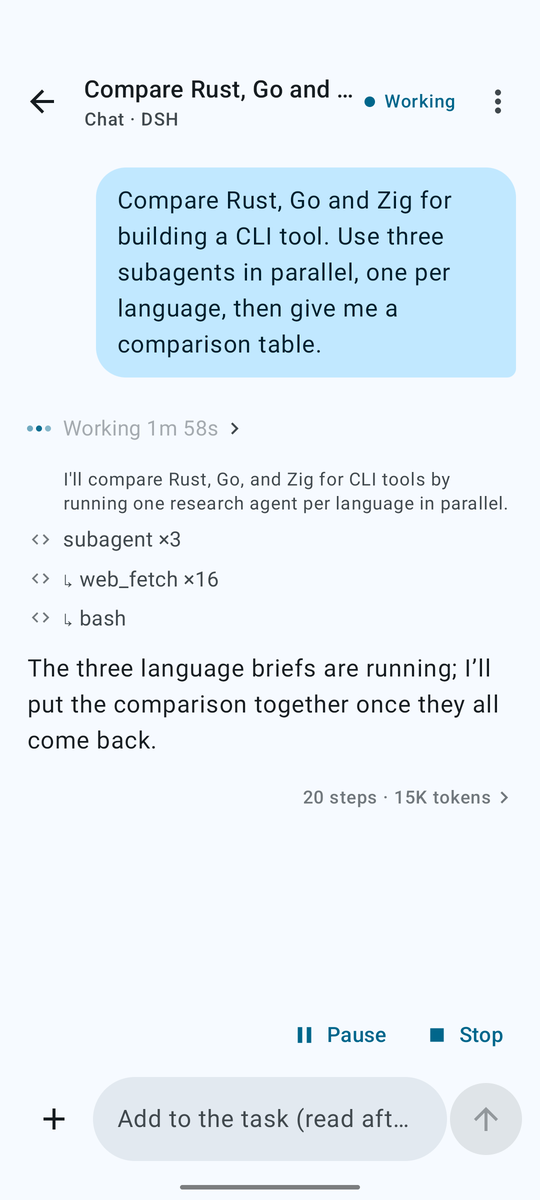
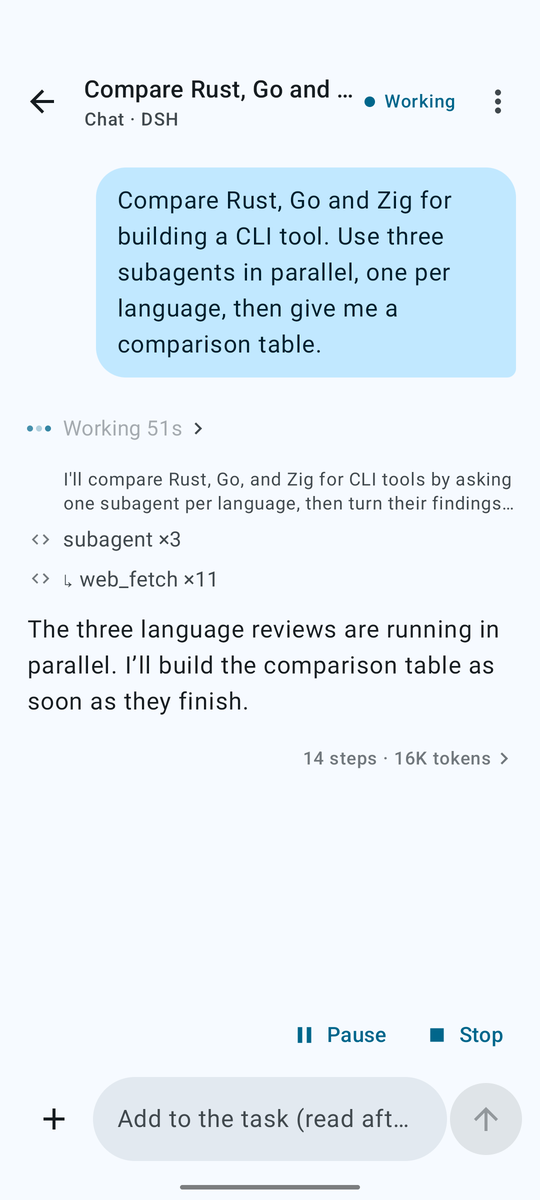
docs(readme): the showcase shows subagents' results as dsh's chat does
The second panel now shows the session as its subagents report back: a card as
each finishes or writes, the agent's reply to each, then the comparison table.
The first panel is the same run while its three subagents work.

diff --git a/docs/images/showcase-src/showcase.html b/docs/images/showcase-src/showcase.html
@@ -33,8 +33,8 @@
     <h2>Subagents in parallel</h2><div class="zh">子智能体并行工作</div>
     <div class="sub">DeepSeek Harness runs three agents at once</div></div>
   <div class="item"><div class="phone"><div class="screen"><img src="2-answer.png"></div></div>
-    <h2>One complete answer</h2><div class="zh">汇总成一份完整答案</div>
-    <div class="sub">three briefs → one comparison table, 3 min</div></div>
+    <h2>Each result, then the table</h2><div class="zh">逐个汇报，再汇总成表</div>
+    <div class="sub">a card as each subagent finishes</div></div>
   <div class="item"><div class="phone"><div class="screen"><img src="3-engine.png"></div></div>
     <h2>Choose your engine</h2><div class="zh">自选 AI 引擎</div>
     <div class="sub">Pi built in, DeepSeek Harness in Termux</div></div>

diff --git a/README.zh-CN.md b/README.zh-CN.md
@@ -48,7 +48,7 @@
 
 ## 它能做什么
 
-![小维助手的四个界面：DeepSeek Harness 会话里三个子智能体并行调研；它的回答，把三份调研汇总成一张对比表；设置里的 AI 引擎选择（Pi 或 DeepSeek Harness）；以及 Pi 会话用 Termux 里的 curl 查天气](docs/images/showcase.png)
+![小维助手的四个界面：DeepSeek Harness 会话里三个子智能体并行调研；每个子智能体完成时出现一张卡片和助手的回复，最后汇总成对比表；设置里的 AI 引擎选择（Pi 或 DeepSeek Harness）；以及 Pi 会话用 Termux 里的 curl 查天气](docs/images/showcase.png)
 
 - **多家 AI 服务：** OpenAI、Anthropic、Google、DeepSeek、OpenRouter、xAI、Moonshot、Mistral、OpenCode，以及任何兼容 OpenAI 的服务（Ollama、vLLM、LM Studio 等）。
 - **照片和文件：** 发给它图片、PDF 和文档；它也会把做好的文件发回给你。

diff --git a/README.md b/README.md
@@ -57,7 +57,7 @@ conversation keeps the engine it started with.
 
 ## What it can do
 
-![Four WeiAssist screens: a DeepSeek Harness session with three subagents researching in parallel; its answer, one comparison table from their briefs; Settings with the AI engine choice, Pi or DeepSeek Harness; and a Pi session answering the weather with curl in Termux](docs/images/showcase.png)
+![Four WeiAssist screens: a DeepSeek Harness session with three subagents researching in parallel; a card as each one finished, with the agent's reply, then the comparison table; Settings with the AI engine choice, Pi or DeepSeek Harness; and a Pi session answering the weather with curl in Termux](docs/images/showcase.png)
 
 - **Many providers:** OpenAI, Anthropic, Google, DeepSeek, OpenRouter, xAI, Moonshot, Mistral, OpenCode, and any
   OpenAI-compatible server (Ollama, vLLM, LM Studio…).

diff --git a/docs/images/showcase-src/README.md b/docs/images/showcase-src/README.md
@@ -9,6 +9,7 @@ frames with English and Chinese captions. Render it with headless Chrome:
 ```
 
 1. A DeepSeek Harness session with three subagents at work (their steps marked ↳).
-2. The same session's answer: one comparison table from the three briefs.
+2. The same session as the results came in: a card as each subagent finished or wrote, the agent's reply to each,
+   then the comparison table.
 3. Settings → AI engine: Pi or DeepSeek Harness.
 4. A Pi session: the weather via curl in Termux, as a table.
